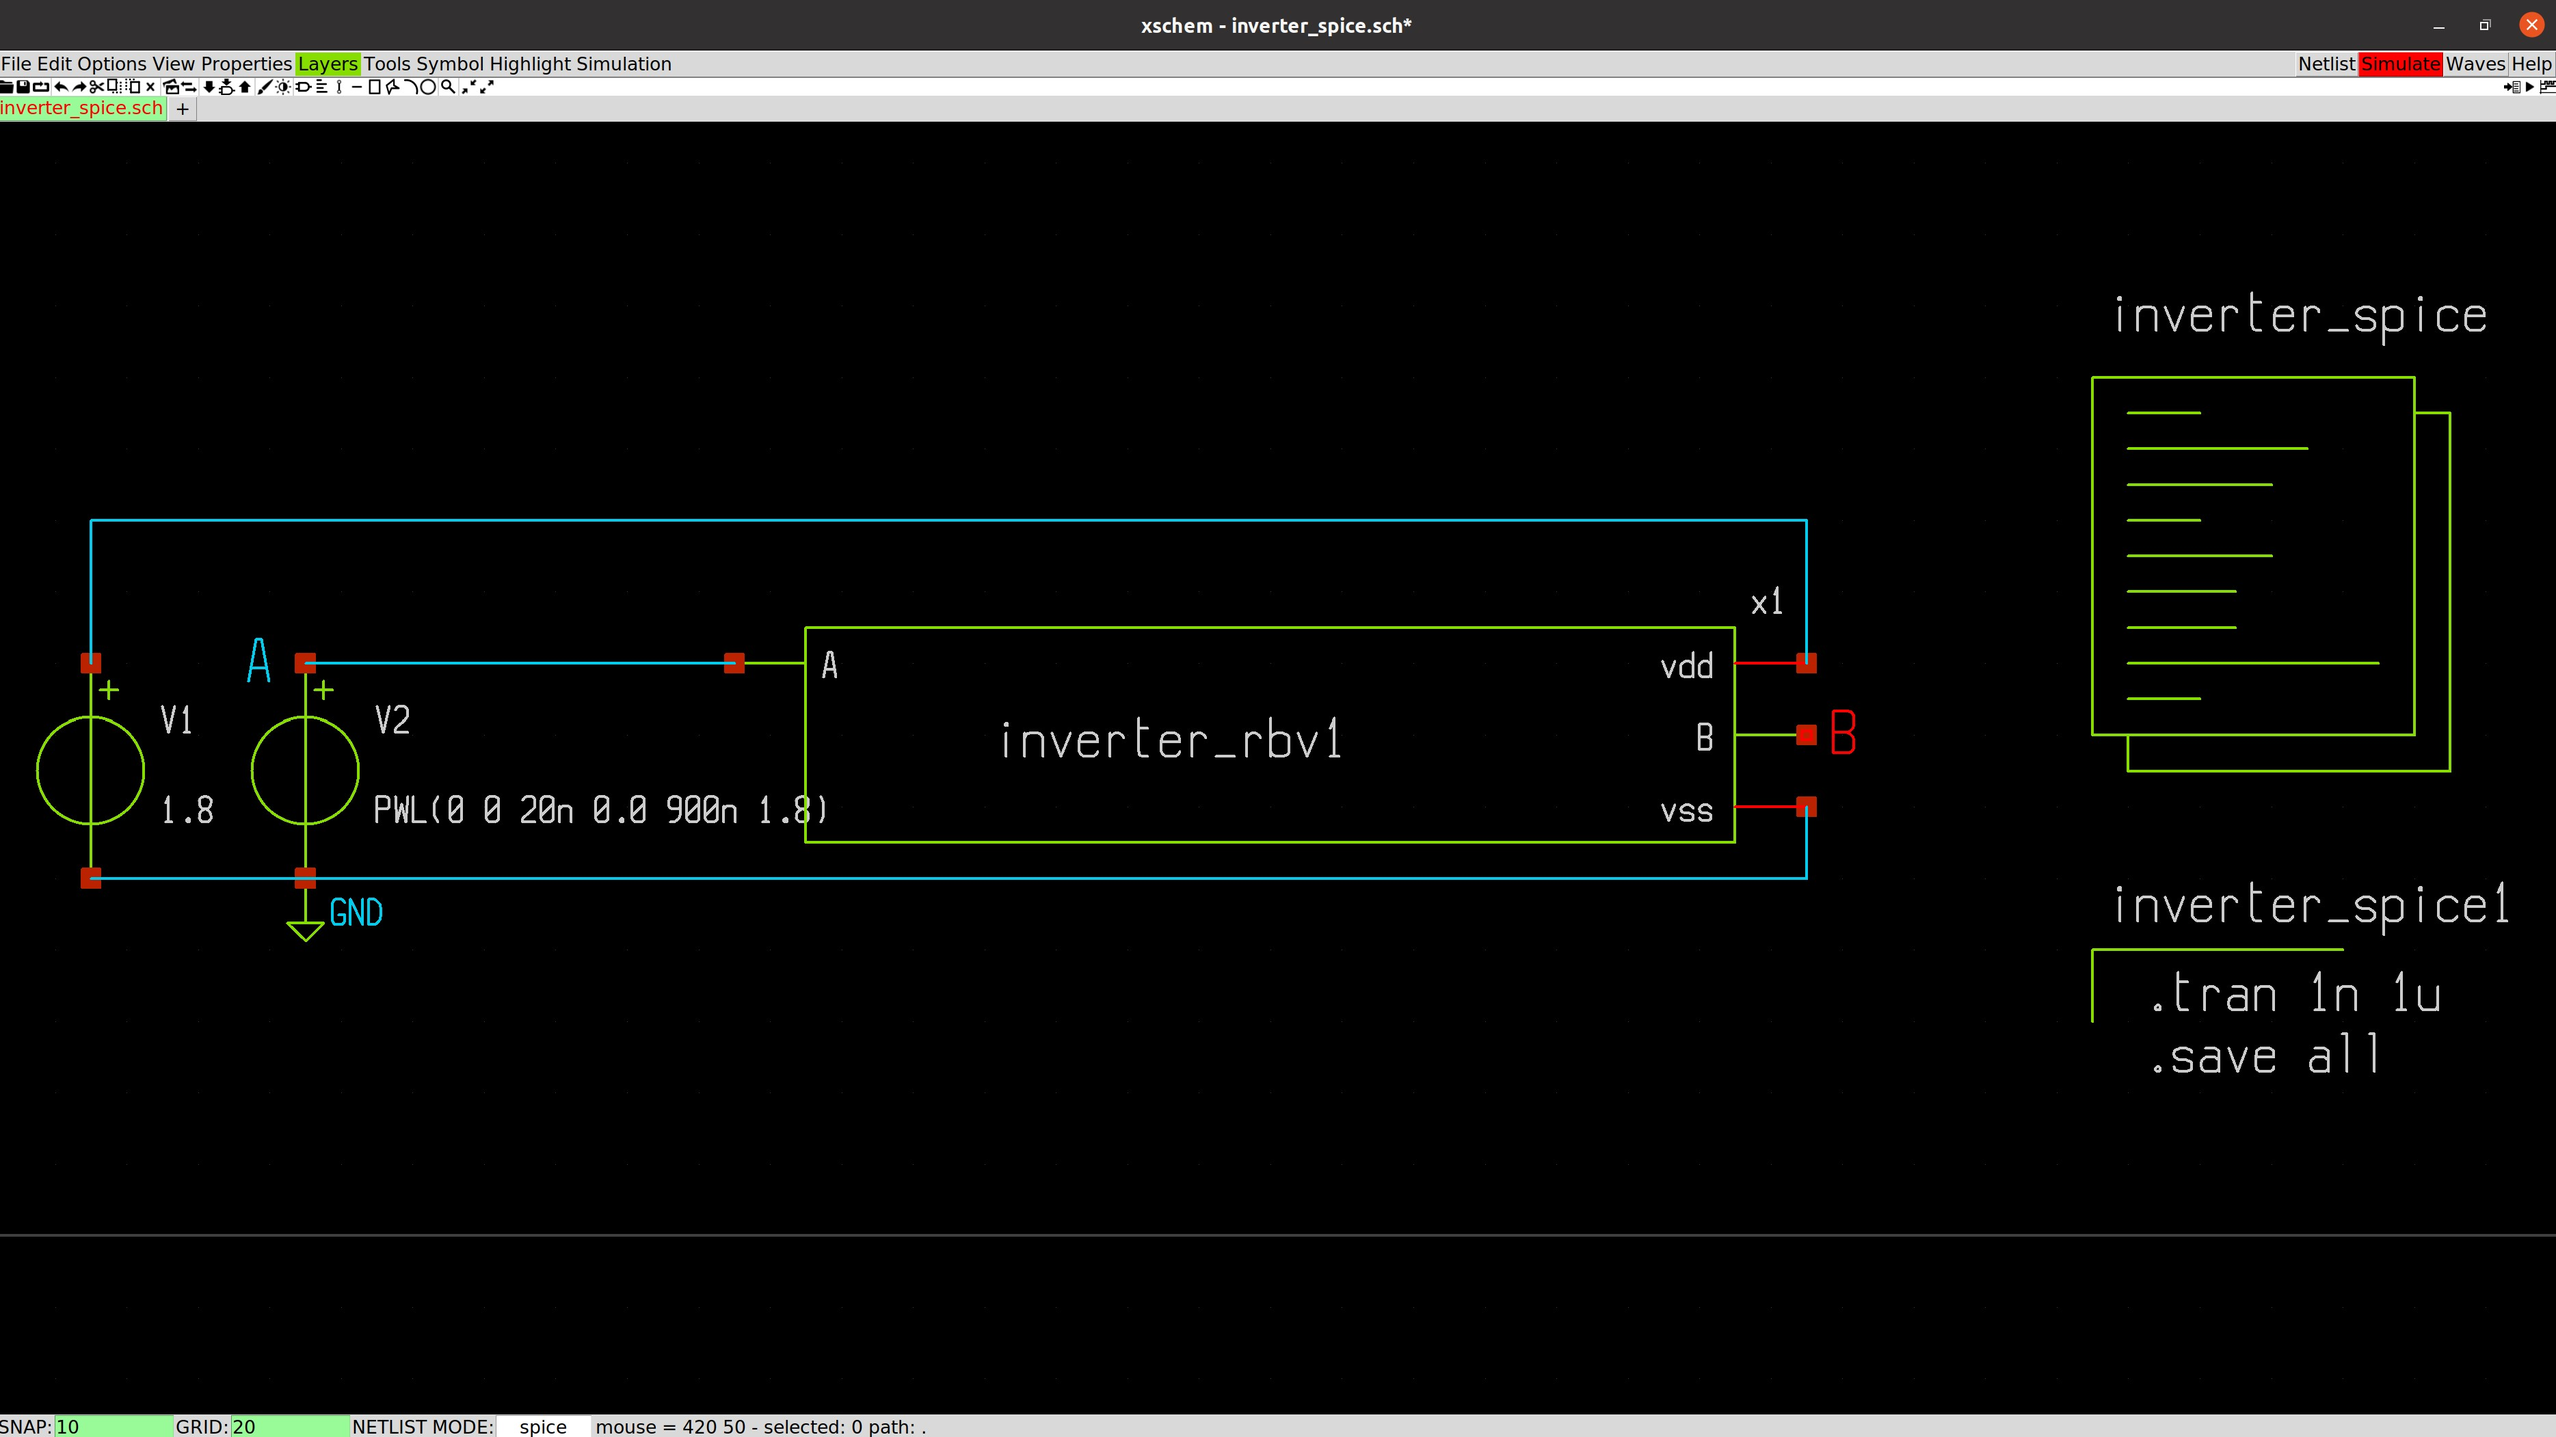
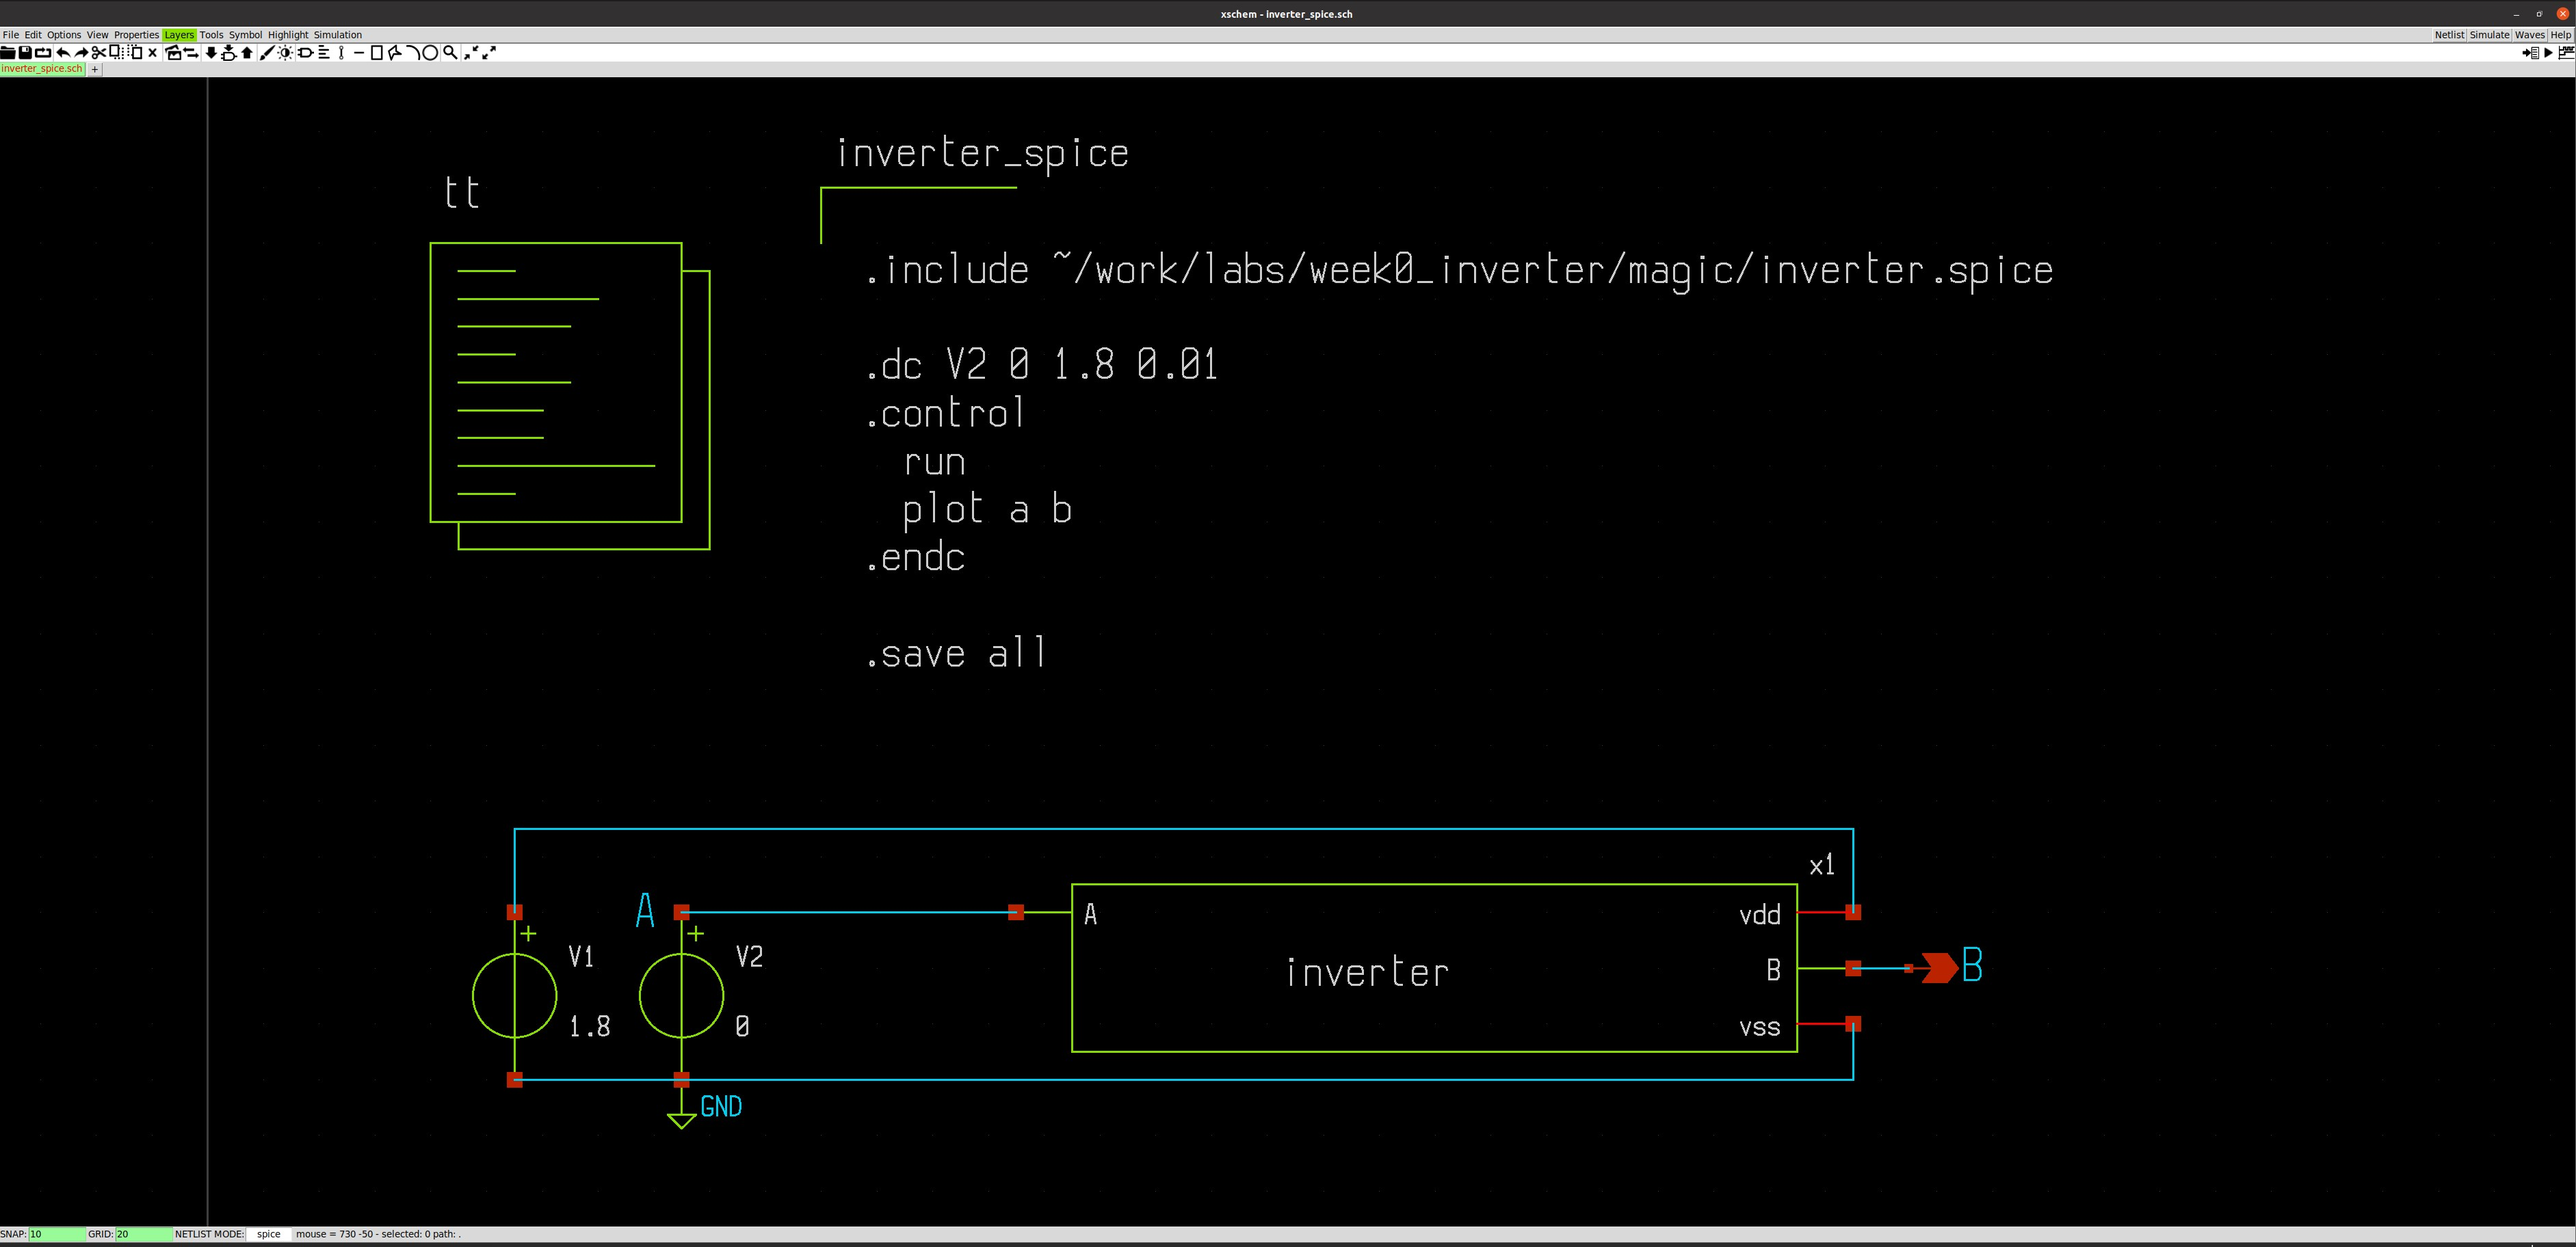
Inverter fix issue

diff --git a/week0/README.md b/week0/README.md
@@ -5,11 +5,15 @@ As a preparation for the work, we are going to install the following software in
 <br>
 
 ## Table of Contents 
-| #  |         Topic          |   Description        |
-|:--:|:-------------------------:|:--------------------:|
-| 1  | Setting up the tools      | Set up all the software and PDK required for the following labs
-| 2  | Characterizing an inverter | Create an inverter in xschem and run simulation|
-
+| #  |         Topic          |   Description        | Status
+|:--:|:-------------------------:|:--------------------:|:-----:|
+| 1  | Setting up the tools      | Set up all the software and PDK required for the following labs|:white_check_mark:|
+| 2  | Pre-layout characterization of inverter using xschem and ngspice | Create an inverter in xschem and run simulation|:white_check_mark:|
+| 3  | Post-layout characterization of inverter using Magic, xschem, and ngspice| Create layout and extract netlist to run simulation|:white_check_mark:|
+| 4  | LVS of the Inverter| Run layout vs schematic for two netlists|:white_check_mark:|
+| 5  | Pre-layout characterization of Fn using xchem and ngspice | Create Fn=[(B+D).(A+C)+E.F]' in xschem and run simulation|:large_orange_diamond:|
+| 6  | Post-layout characterization of Fn using Magic, xschem and ngspice | Create layout and extract netlist to run simulation|:large_orange_diamond:|
+| 7  | LVS of the Fn function| Run layout vs schematic for two netlists of Fn|:white_check_mark:|
 
 
 
@@ -142,7 +146,7 @@ schematic2layout.py ../pdks/ALIGN-pdk-sky130/examples/telescopic_ota/ -p ../pdks
 
 <br><br>
 
-## 2. Characterizing an inverter
+## **2. Pre-layout characterization of inverter using xschem and ngspice**
 We will first create an inverter using the Sky130 PDK that we installed through the OpenPDK. To do that, let's first create an inverter. 
 
 <p align="center">
@@ -156,7 +160,7 @@ For the scematic above, we can create symbol in two ways. We generate the symbol
   <img width=500 src="./images/inverter_rb3.jpg">
 </p>
 
-When we create a custom symbol, we have to describe the global schematic property with something like given below. This is to make sure that SPICE recognizes our device when we use in our design. This can be set by clicking anywhere in the blank space and pressing **q** and entering the below informatin in the text box that appears as shown in the figure below.
+When we create a custom symbol, we have to describe the global schematic property as given below. This is to make sure that SPICE recognizes our device when we use it in our design. This can be set by clicking anywhere in the blank space and pressing **q** and entering the below informatin in the text box that appears as shown in the figure below.
 
 ```
 type=subcircuit
@@ -167,7 +171,7 @@ template="name=X1"
   <img width=600 src="./images/inverter_rb4.jpg">
 </p>
 
-I also created a buffer from the inverter that I created above as shown below. 
+I also created a buffer from the inverter as shown below (but have not done the simulation with it yet). 
 
 <p align="left">
   <img width=500 src="./images/buffer_level0.jpg">
@@ -180,28 +184,30 @@ Now, characterizing the inverter circuit with the following setup leads to the o
 In order to run the simulation, we have to add a **code** block with the following configuration. This is done so that SPICE can expand the sub-circuit call with the Sky130 library files.
 
 ```
-name=inverter_spice only_toplevel=false value="
-
+name=tt only_toplevel=false value="
 .lib /usr/local/share/pdk/sky130A/libs.tech/ngspice/sky130.lib.spice tt
-
-.control
-  dc V2 0 1.8 0.01
-  plot a b
-.endc
-
-.save all
 "
 ```
 
-Then, we can add the **code_shown** block with the following transient values. 
+Then, we can add following to the **code_shown** block with the to run a dc sweep analysis. 
 
 ```
-name=inverter_spice1 only_toplevel=false value=".tran 0.01n 1u
+name=inverter_spice only_toplevel=false value="
+.dc v2 0 1.8 0.01
+
+.control
+  run
+  plot a b
+.endc
+
 .save all"
 ```
 
-<p align="left">
+<p align="center">
   <img width=500 src="./images/inverter_setup.jpg">
+</p>
+
+<p align="center">
   <img width=200 src="./images/inverter_setup_1.jpg">
 </p>
 
@@ -212,29 +218,29 @@ And, generating the netlist and running the simulation, we get the following out
 </p>
 
 
-### **Inverter layout with Magic**
+<br><br>
 
-We first create an inverter in Magic and extract the SPICE netlist.
+## **3. Post-layout characterization of inverter using Magic, xschem, and ngspice**
+
+We can either create an inverter in Magic from scratch and then extract the SPICE netlist as shown below, or we can import the netlist generated by xschem and then route the cells as shown in the next screenshot.
+
 <p align="center">
   <img width=800 src="./images/inverter_layout_rb1.jpg">
 </p>
 
-TThen we extract the netlist using the following commands. 
+<p align="center">
+  <img width=800 src="./images/magic_xschem_layout.jpg">
+</p>
+
+Then we extract the netlist using the following commands. 
 ```
 extract all
 ext2spice cthresh 0 rthresh 0
 ext2spice
 ```
-
 And we get the netlist for SPICE simulation.
 
 Now, in order to run the post-layout simulation, we have to include this netlist in the xschem testbench shown above. To do that, we need to change which netlist **xschem** calls when it launches the simulation. 
-
-Now open the symbol file (.sym) for the inverter that you generated and press **Q** to edit the global property in the schematic and you will get the property list, now edit as shown below. 
-
-<p align="center">
-  <img width=400 src="./images/inverter_primative.jpg">
-</p>
 
 Now, we will import this symbol to the testbench and add SPICE include command to include the newly generated spice.
 
@@ -244,21 +250,26 @@ Now, we will import this symbol to the testbench and add SPICE include command t
 
 The inverter_spice code includes the directory to the Sky130 spice model files
 ```
-name=inverter_spice only_toplevel=false value=
-
+name=tt only_toplevel=false value=
 "
 .lib /usr/local/share/pdk/sky130A/libs.tech/ngspice/sky130.lib.spice tt
 "
 ```
 
 <p align="center">
-  <img width=400 src="./images/inverter_layout_xschem.jpg">
+  <img width=400 src="./images/magic_xschem_layout_sim.jpg">
 </p>
 
-:construction: There is an error in the output simulation waveform, fixing it.
+We get the following waveform, similar to what we got in the pre-layout simulation.
 
 <p align="center">
-  <img width=400 src="./images/inverter_spice_error.jpg">
+  <img width=800 src="./images/magic_xschem_layout_waveform_manualspice.jpg">
+</p>
+
+Also doing a transient simulation to the input gate, we get the following waveform.
+
+<p align="center">
+  <img width=800 src="./images/magic_xschem_layout_tran.jpg">
 </p>
 
 This concludes the post-layout characterization of the inverter. 
@@ -266,7 +277,16 @@ This concludes the post-layout characterization of the inverter.
 
 ## LVS
 
-The lvs done on the two circuits outputs the following results. 
+To run LVS, we first have to extract the netlist from layout in a different way using the following command. 
+
+```
+extract all
+ext2spice lvs
+ext2spice
+```
+
+This generates the netlist that xschem can compare one to one with the netlist generated from schematic. The lvs done on the two circuits outputs the following results. 
+
 <p align="center">
   <img width=800 src="./images/lvs.jpg">
 </p>
